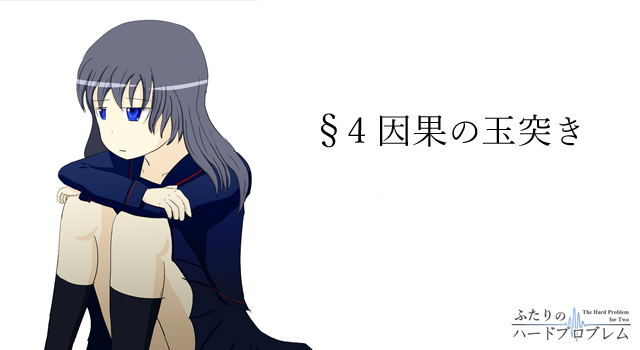
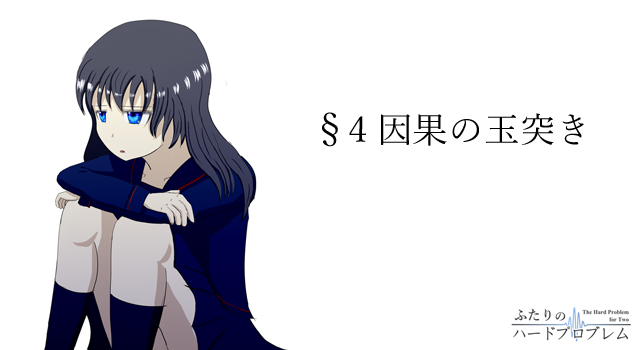
§4扉絵、手直し

Changed region(s): [[0.0625, 0.0571, 0.4062, 1.0], [0.5, 0.3143, 0.9062, 0.4286], [0.4062, 0.9429, 0.5, 1.0]]

diff --git a/picture.html b/picture.html
@@ -18,7 +18,7 @@
   </div>
   
   <table class="picture">
-    <caption>らくがき（えっちいのアリ）</caption>
+    <caption>らくがき</caption>
     <tbody>
       <tr>
         <td><a href="picture/nozomiriko02.html"><img src="thumbnail/tn_nozomiriko02.jpg"></a></td>

diff --git a/picture/nozomi08.html b/picture/nozomi08.html
@@ -14,7 +14,7 @@
   </div>
   
   <div class="image">
-    <a href="nozomi08_.html"><img src="image/nozomi08.png" alt=""></a>
+    <img src="image/nozomi08.png" alt="">
   </div>
   
   <div class="picturetitle">
